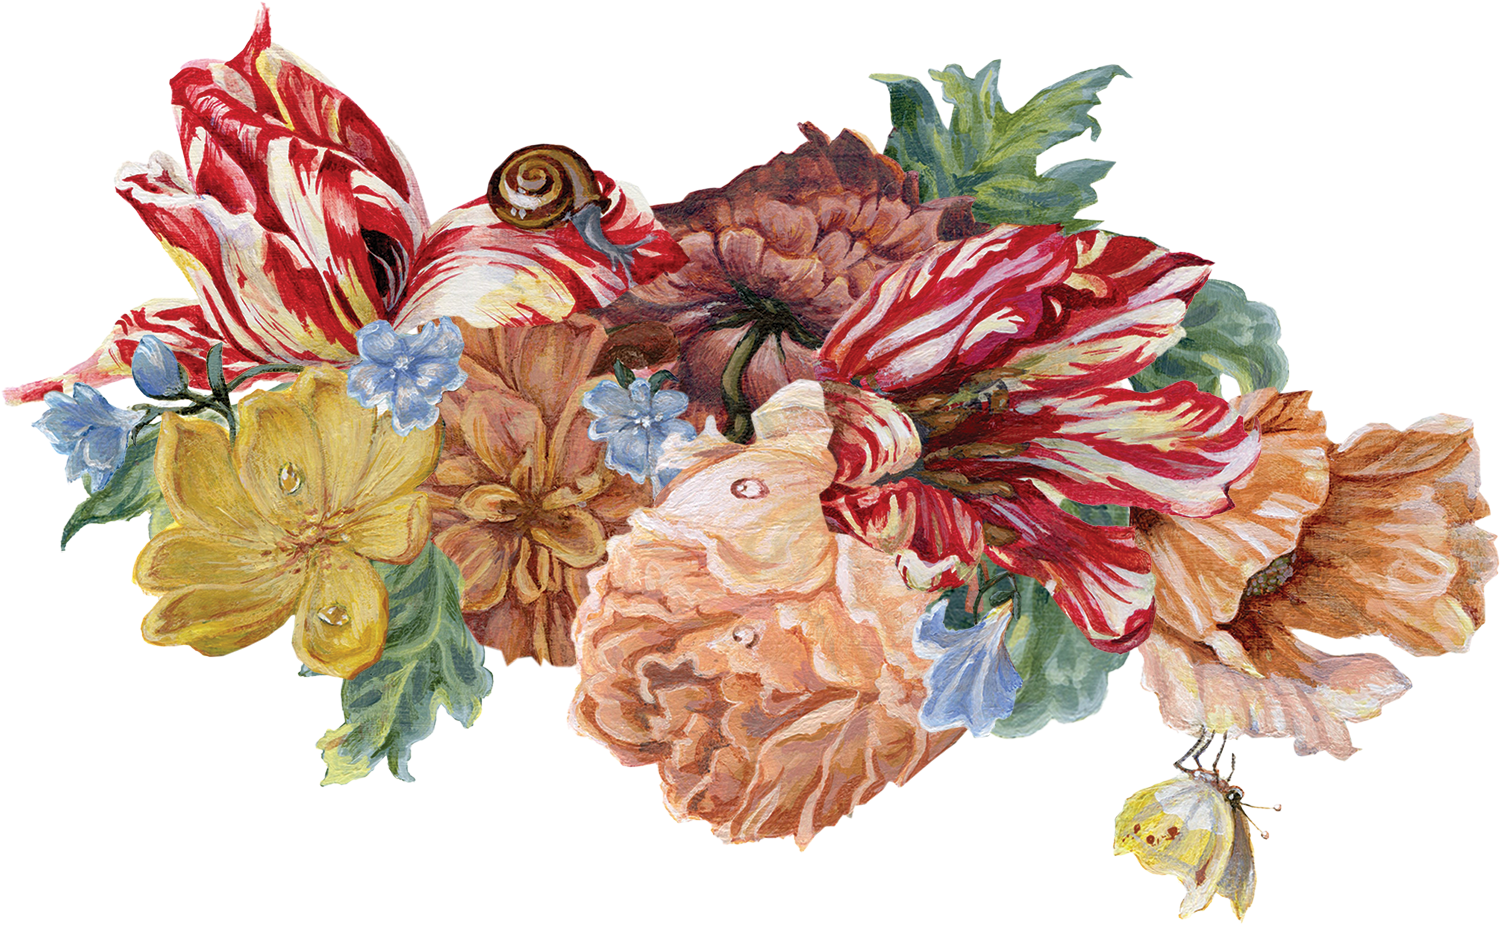
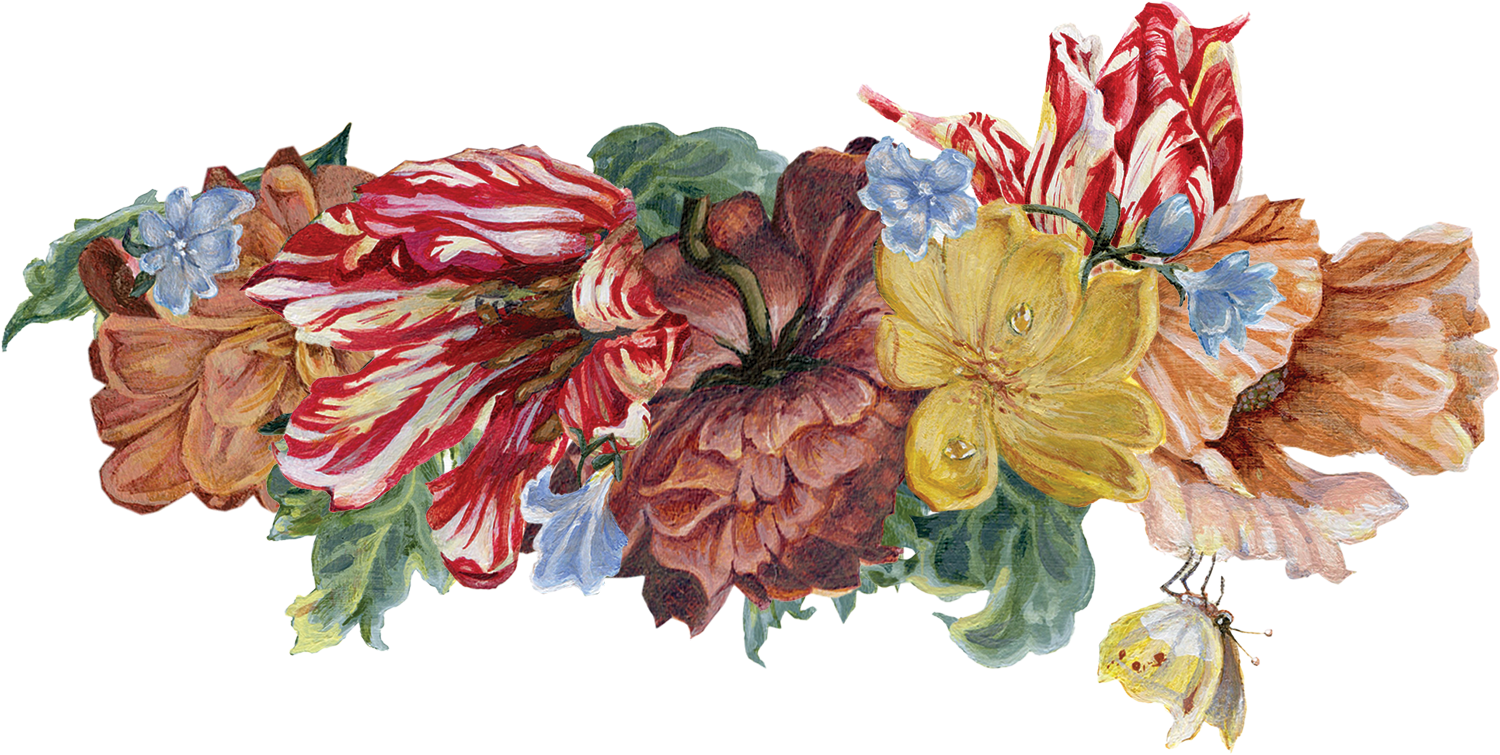
More content

diff --git a/src/components/pages/Home/Home.tsx b/src/components/pages/Home/Home.tsx
@@ -10,6 +10,11 @@ import {
   NamesContainer,
   HomeContainer,
   NavContainer,
+  NavAndImage,
+  Tulip,
+  Leaf,
+  TextBlock,
+  AccomContainer,
 } from "./styles";
 import { submitRsvp } from "./utils";
 import Tick from "./Tick";
@@ -38,7 +43,7 @@ const Home = (): ReactElement => {
   return (
     <div>
       <HeadImageContainer>
-        <HeadImage src="https://res.cloudinary.com/dqqwahudr/image/upload/v1645363106/flowers_wlxnim.png" />
+        <HeadImage src="https://res.cloudinary.com/dqqwahudr/image/upload/v1646773057/flowers_zdwe3t.png" />
       </HeadImageContainer>
 
       <PageTitleContainer>
@@ -55,21 +60,19 @@ const Home = (): ReactElement => {
       <ScrollDown />
 
       <HomeContainer>
-        <Typography
-          variant="h2"
-          text="Menu"
-          style={{ textAlign: "center", marginTop: "8rem" }}
-        />
-
-        <NavContainer>
-          <Typography variant="h4link" text="RSVP" href="#RSVP" />
-          <Typography variant="h4link" text="Travel" href="#TRAVEL" />
-          <Typography variant="h4link" text="Accommodation" href="#ACCOM" />
-          <Typography variant="h4link" text="Our Story" href="#STORY" />
-          <Typography variant="h4link" text="Photos" href="#PHOTOS" />
-          <Typography variant="h4link" text="Contact Us" href="#CONTACT" />
-          <Typography variant="h4link" text="Our Map of Oxford" href="#MAP" />
-        </NavContainer>
+        <NavAndImage>
+          <Tulip src="https://res.cloudinary.com/dqqwahudr/image/upload/v1646774796/tulip_mevduy.png" />
+          <Leaf src="https://res.cloudinary.com/dqqwahudr/image/upload/v1646775769/leaf_y4g3xt.png" />
+          <NavContainer>
+            <Typography variant="h4link" text="RSVP" href="#RSVP" />
+            <Typography variant="h4link" text="Our Story" href="#STORY" />
+            <Typography variant="h4link" text="Photos" href="#PHOTOS" />
+            <Typography variant="h4link" text="Travel" href="#TRAVEL" />
+            <Typography variant="h4link" text="Accommodation" href="#ACCOM" />
+            <Typography variant="h4link" text="Contact Us" href="#CONTACT" />
+            <Typography variant="h4link" text="Our Map of Oxford" href="#MAP" />
+          </NavContainer>
+        </NavAndImage>
 
         <Typography
           id="RSVP"
@@ -88,6 +91,7 @@ const Home = (): ReactElement => {
               } else {
                 setRsvpStep("ERROR");
               }
+              document.querySelector("#RSVP")?.scrollIntoView();
             });
           }}
         >
@@ -235,6 +239,7 @@ const Home = (): ReactElement => {
                   placeholder="e.g. John Smith"
                   required
                   fullWidth
+                  style={{ marginBottom: "1rem" }}
                 />
 
                 {eveningGuest === false && attending && (
@@ -320,11 +325,71 @@ const Home = (): ReactElement => {
         </Form>
 
         <Typography
+          id="STORY"
+          variant="h2"
+          text="Our Story"
+          style={{ textAlign: "center", marginTop: "6rem" }}
+        />
+
+        <TextBlock>
+          <Typography variant="body" text="TODO" />
+        </TextBlock>
+
+        <Typography
+          id="PHOTOS"
+          variant="h2"
+          text="Photos"
+          style={{ textAlign: "center", marginTop: "8rem" }}
+        />
+
+        <Typography
+          id="PHOTOS"
+          variant="h3"
+          text="Check back here after the wedding!"
+          style={{
+            textAlign: "center",
+          }}
+        />
+
+        <Typography
           id="TRAVEL"
           variant="h2"
           text="Travel"
           style={{ textAlign: "center", marginTop: "8rem" }}
         />
+
+        <TextBlock>
+          <Typography variant="h3" text="Arriving by car" />
+
+          <Typography
+            variant="body"
+            text="Oxford is a tricky city to navigate by car! We strongly recommend using any of the three Park-and-Ride locations (Thornhill, Redbridge, Seacourt). Parking is great value, and there are regular buses to central Oxford."
+          />
+
+          <Typography
+            variant="body"
+            text="Alternatively, if you would like to park in central Oxford (and if your hotel doesn't have its own spaces, which is common), there are three main car parks we'd recommend: Westgate (the main shopping mall, this has the most space and is indoors), Oxpens (a small multi-storey), and Worcester Street (medium-size, outdoors). Expect to pay £25 or more for 24 hours, though!"
+          />
+
+          <Typography variant="h3" text="Arriving by train" />
+
+          <Typography
+            variant="body"
+            text="Oxford's train station is a 15-minute walk from the city centre. Buses are regular from just outside and many go via the centre."
+          />
+
+          <Typography variant="h3" text="Getting around the city" />
+
+          <Typography
+            variant="body"
+            text="Oxford is a fairly small city and easy enough to walk around - just mind the cobbles!"
+          />
+
+          <Typography
+            variant="body"
+            text="For anything outside the main area of central Oxford, Royal Cars are the best taxi service and great value (01865 777333). Download their app for an Uber-like experience. Buses are regular and reasonable value."
+          />
+        </TextBlock>
 
         <Typography
           id="ACCOM"
@@ -333,19 +398,35 @@ const Home = (): ReactElement => {
           style={{ textAlign: "center", marginTop: "8rem" }}
         />
 
-        <Typography
-          id="STORY"
-          variant="h2"
-          text="Our Story"
-          style={{ textAlign: "center", marginTop: "8rem" }}
-        />
+        <TextBlock>
+          <Typography
+            variant="h3"
+            text="There are a fair few hotels and AirBnBs around Oxfordshire. Here's a few hotels that we would recommend checking out first."
+          />
+        </TextBlock>
 
-        <Typography
-          id="PHOTOS"
-          variant="h2"
-          text="Photos (check here after the wedding!)"
-          style={{ textAlign: "center", marginTop: "8rem" }}
-        />
+        <AccomContainer>
+          <div>
+            <Typography variant="h3" text="Near the ceremony" />
+            <Typography variant="body" text="Premier Inn Oxford (££)" />
+            <Typography variant="body" text="Vanbrugh House Hotel (£££)" />
+            <Typography variant="body" text="Old Parsonage (££££)" />
+            <Typography variant="body" text="Old Bank Hotel (££££)" />
+          </div>
+
+          <div>
+            <Typography variant="h3" text="Near the party" />
+            <Typography variant="body" text="Travelodge Oxford Peartree (£)" />
+            <Typography variant="body" text="easyHotel Oxford (£)" />
+          </div>
+
+          <div>
+            <Typography variant="h3" text="Slightly further afield" />
+            <Typography variant="body" text="voco Oxford Spires (££)" />
+            <Typography variant="body" text="Jurys Inn Oxford (££)" />
+            <Typography variant="body" text="Holiday Inn Oxford (££)" />
+          </div>
+        </AccomContainer>
 
         <Typography
           id="CONTACT"
@@ -353,6 +434,16 @@ const Home = (): ReactElement => {
           text="Contact Us"
           style={{ textAlign: "center", marginTop: "8rem" }}
         />
+
+        <TextBlock>
+          <Typography
+            variant="h3"
+            text="Feel free to drop us a text or a WhatsApp message if you have any questions!"
+          />
+
+          <Typography variant="body" text="Joe: 07500 058253" />
+          <Typography variant="body" text="Jasmine: 07824 332447" />
+        </TextBlock>
 
         <Typography
           id="MAP"
@@ -363,7 +454,7 @@ const Home = (): ReactElement => {
 
         <Typography
           variant="h3"
-          text="Everything from restaurants and landmarks, to the locations of our favourite Oxford memories."
+          text="From restaurants and landmarks, to the locations of our favourite Oxford memories. Each point on the map has a story..."
           style={{
             textAlign: "center",
             width: "40rem",

diff --git a/src/components/pages/Home/styles.ts b/src/components/pages/Home/styles.ts
@@ -49,6 +49,7 @@ export const HomeContainer = styled("div")`
   animation-delay: 2s;
   animation-duration: 2s;
   animation-fill-mode: forwards;
+  padding-top: 8rem;
 `;
 
 export const MapThumbs = styled("div")`
@@ -67,17 +68,65 @@ export const MapThumbs = styled("div")`
 `;
 
 export const NavContainer = styled("nav")`
-  margin: auto;
   display: flex;
   flex-direction: column;
   align-items: center;
-  width: 20rem;
+  width: 100%;
   padding: 1rem 2rem;
   max-width: 100%;
   box-sizing: border-box;
   border: 1rem solid ${theme.highlight};
+  background-color: ${theme.lightTint};
   > * {
     margin: 1rem;
     white-space: nowrap;
+  }
+`;
+
+export const NavAndImage = styled("div")`
+  position: relative;
+  width: 20rem;
+  margin: auto;
+`;
+
+export const Tulip = styled("img")`
+  position: absolute;
+  z-index: -1;
+  left: -134%;
+  top: -70%;
+  transform: scale(0.7) rotate(-9deg);
+`;
+
+export const Leaf = styled("img")`
+  position: absolute;
+  z-index: -1;
+  left: -74%;
+  top: -22%;
+  transform: scale(0.7) rotate(72deg) scaleX(-1);
+`;
+
+export const TextBlock = styled("div")`
+  width: 35rem;
+  padding: 0 2rem;
+  max-width: 100%;
+  box-sizing: border-box;
+  margin: auto;
+  text-align: center;
+`;
+
+export const AccomContainer = styled("div")`
+  display: flex;
+  justify-content: center;
+
+  > div {
+    margin: 0 2rem;
+    > * {
+      text-align: center;
+    }
+  }
+
+  @media (max-width: 983px) {
+    flex-direction: column;
+    align-items: center;
   }
 `;

diff --git a/src/components/pages/Password/Password.tsx b/src/components/pages/Password/Password.tsx
@@ -24,16 +24,21 @@ const Password = ({ children }: Props): ReactElement => {
     }
   }, [password]);
 
+  useEffect(() => {
+    window.scrollTo(0, 0);
+  }, [passwordEnteredCorrectly]);
+
   return passwordEnteredCorrectly ? (
     children
   ) : (
     <div>
       <HeadImageContainer>
-        <HeadImage src="https://res.cloudinary.com/dqqwahudr/image/upload/v1645363106/flowers_wlxnim.png" />
+        <HeadImage src="https://res.cloudinary.com/dqqwahudr/image/upload/v1646773057/flowers_zdwe3t.png" />
       </HeadImageContainer>
 
       <PasswordContainer>
         <Typography variant="h2" text="Enter the 4-digit PIN" />
+
         <TextField
           type="number"
           placeholder="PIN"
@@ -45,6 +50,20 @@ const Password = ({ children }: Props): ReactElement => {
               style: { textAlign: "center" },
             },
           }}
+        />
+
+        {password.length > 3 && password !== correctPassword && (
+          <Typography
+            variant="error"
+            text="Incorrect PIN"
+            style={{ marginTop: "1rem" }}
+          />
+        )}
+
+        <Typography
+          variant="body"
+          text="Hint: The date of our wedding in 'day day month month' format."
+          style={{ marginTop: "2rem" }}
         />
       </PasswordContainer>
     </div>

diff --git a/src/components/core/Typography/styles.ts b/src/components/core/Typography/styles.ts
@@ -1,6 +1,9 @@
 import styled from "styled-components";
 
-export const Body = styled("p")``;
+export const Body = styled("p")`
+  font-size: ${({ theme }) => theme.space(2)};
+  line-height ${({ theme }) => theme.space(3)};
+`;
 
 export const H1 = styled("h1")`
   font-size: ${({ theme }) => theme.space(8)};
@@ -15,6 +18,7 @@ export const H2 = styled("h2")`
 export const H3 = styled("h3")`
   font-size: ${({ theme }) => theme.space(3)};
   font-weight: 400;
+  margin-top: 3rem;
 `;
 
 export const H4 = styled("h4")`

diff --git a/src/components/pages/styles.ts b/src/components/pages/styles.ts
@@ -43,9 +43,9 @@ export const HeadContainer = styled("div")`
 export const HeadImage = styled("img")`
   width: 80rem;
   max-width: 130%;
-  margin-top: -20rem;
+  margin-top: -11rem;
   @media (max-width: 983px) {
-    margin-top: -32.5%;
+    margin-top: -17.9%;
   }
 `;
 
